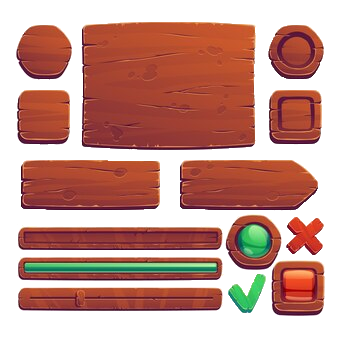
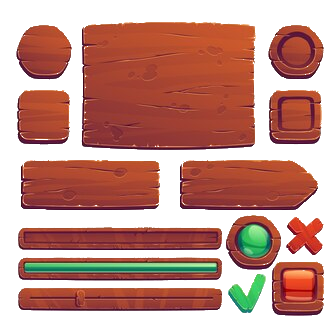
[FEAT] help button

diff --git a/src/setup/menu/menu_button_setup.c b/src/setup/menu/menu_button_setup.c
@@ -7,6 +7,18 @@
 
 #include "my.h"
 
+static int help_button(main_menu_buttons_t **button)
+{
+    (*button)->help_book = sfTexture_createFromFile(HELP_BOOK, NULL);
+    (*button)->help_book_spr = create_button((*button)->help_book,
+    (sfVector2f) {0.13, 0.13}, (sfVector2f) {1818.0, 41.0});
+    (*button)->help_back = sfTexture_createFromFile(BUTTON_PANEL, NULL);
+    (*button)->help_back_spr = create_button((*button)->help_back,
+    (sfVector2f) {1.6, 1.6}, (sfVector2f) {1800.0, 25.0});
+    sfSprite_setTextureRect((*button)->help_back_spr, BACK_HELP);
+    return OK;
+}
+
 static char **fill_name(void)
 {
     char **button_name = malloc(sizeof(char *) * 4);
@@ -59,6 +71,9 @@ static int set_button(main_menu_buttons_t **button)
     if (creation_loop(button, button_name) == KO)
         return KO;
     (*button)->sprites[3] = NULL;
+    help_button(button);
+    if (!(*button)->help_book || !(*button)->help_book_spr)
+        return 84;
     for (int i = 0; button_name[i] != NULL; i += 1)
         free(button_name[i]);
     free(button_name);

diff --git a/include/menu_include/menu.h b/include/menu_include/menu.h
@@ -24,11 +24,13 @@
     #define TITLE_FONT "assets/Font/GAMERIA.ttf"
     #define MUSIC_MENU "assets/music/menu_music.ogg"
     #define SOUND_CLICK_BUTTON "assets/music/tap_sound.ogg"
+    #define HELP_BOOK "assets/button/help_book.png"
     #define BG_RECT ((sfIntRect) {0, 0, 560, 272})
     #define BUTTON_RECT ((sfIntRect) {0.0, 0.0, 748.0, 287.0})
     #define HUMAN_RECT ((sfIntRect) {210, 0, 52, 56})
     #define DWARF_RECT ((sfIntRect) {156, 110, 52, 60})
-    #define ELF_RECT ((sfIntRect) {212, 228, 52, 60})
+    #define ELF_RECT ((sfIntRect) {212, 228, 52, 62})
+    #define BACK_HELP ((sfIntRect) {275, 261, 51, 57})
 
 typedef enum menu_state_s {
     MAIN,

diff --git a/src/rpg_loop.c b/src/rpg_loop.c
@@ -20,6 +20,8 @@ static void draw_menu_buttons(sfRenderWindow *window,
             main_menu_buttons->sprites[i], NULL);
         sfRenderWindow_drawText(window, main_menu_buttons->text[i], NULL);
     }
+    sfRenderWindow_drawSprite(window, main_menu_buttons->help_back_spr, NULL);
+    sfRenderWindow_drawSprite(window, main_menu_buttons->help_book_spr, NULL);
 }
 
 static void draw_menu_background(sfRenderWindow *window,

diff --git a/include/menu_include/main_menu.h b/include/menu_include/main_menu.h
@@ -17,6 +17,11 @@ typedef struct main_menu_buttons_s {
     button_state_t *buttons_status;
     sfSprite **sprites;
     sfText **text;
+
+    sfTexture *help_book;
+    sfSprite *help_book_spr;
+    sfTexture *help_back;
+    sfSprite *help_back_spr;
 } main_menu_buttons_t;
 
 typedef struct main_menu_s {
